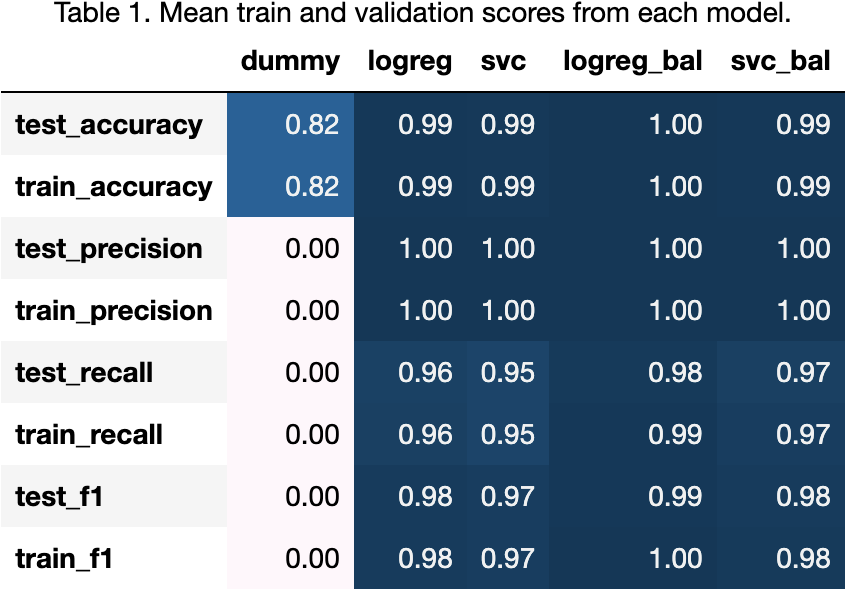
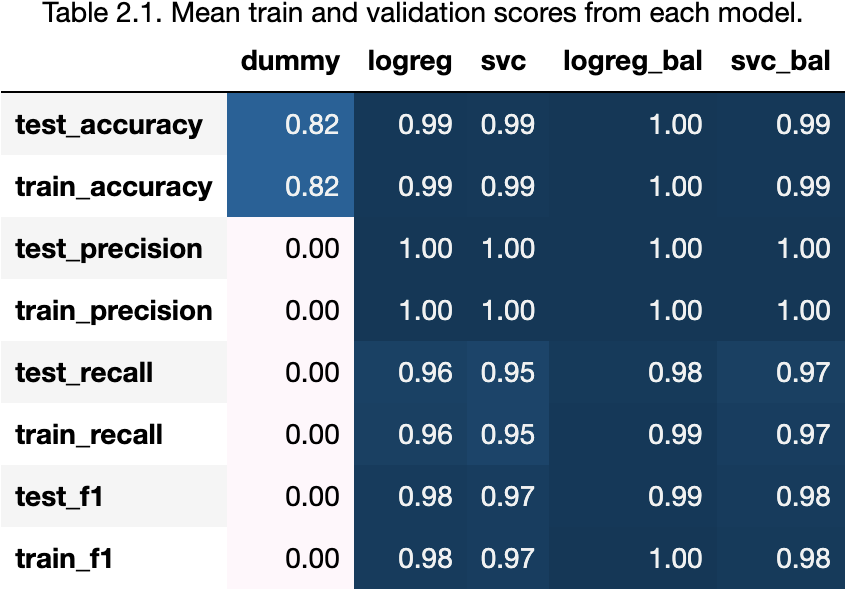
Reformat tables and add model results

Changed region(s): [[0.0307, 0.0, 0.9527, 0.061]]

diff --git a/src/nyc_rest_results.py b/src/nyc_rest_results.py
@@ -152,7 +152,7 @@ def main(train_data, test_data, output_dir):
         axis='columns',
         level=1
     ).drop(['fit_time', 'score_time'])
-    avg_results_table = avg_results_table.style.format(precision=2).background_gradient(axis=None).set_caption('Table 1. Mean train and validation scores from each model.')
+    avg_results_table = avg_results_table.style.format(precision=2).background_gradient(axis=None).set_caption('Table 2.1. Mean train and validation scores from each model.')
     dfi.export(avg_results_table, output_dir + "/mean_scores_table.png")
 
     # Adapted from 573 Lab 1
@@ -164,7 +164,7 @@ def main(train_data, test_data, output_dir):
         axis='columns',
         level=1
     ).drop(['fit_time', 'score_time'])
-    std_results_table = std_results_table.style.format(precision=2).background_gradient(axis=None).set_caption('Table 2. Standard deviation of train and validation scores for each model.')
+    std_results_table = std_results_table.style.format(precision=2).background_gradient(axis=None).set_caption('Table 2.2. Standard deviation of train and validation scores for each model.')
     dfi.export(std_results_table, output_dir + "/std_scores_table.png")
 
     # fitting the logistic regression model to train data because mean validation score for LR is higher
@@ -184,17 +184,18 @@ def main(train_data, test_data, output_dir):
 
     # Creating hyperparameter tuning table
     random_cv_df = pd.DataFrame(random_search.cv_results_)[['mean_train_score', 'mean_test_score', 'param_logisticregression__C',
-                                                            'param_countvectorizer__max_features', 'param_columntransformer__onehotencoder__max_categories', 'rank_test_score']].set_index("rank_test_score").sort_index()
-    random_cv_df = random_cv_df.style.set_caption('Table 3. Mean train and cross-validation scores (5-fold) for balanced logistici regression, optimizing recall score.')
+                                                            'param_columntransformer__countvectorizer__max_features',
+                                                            'param_columntransformer__onehotencoder__max_categories', 'rank_test_score']].set_index("rank_test_score").sort_index()
+    random_cv_df = random_cv_df.style.set_caption('Table 2.3. Mean train and cross-validation scores (5-fold) for balanced logistic regression, optimizing recall score.')
     dfi.export(random_cv_df, output_dir + "hyperparam_results.png")
 
     print("\nDoing cross validation using the best parameters...")
     best_model_table = pd.DataFrame(cross_validate(random_search.best_estimator_, X_train, y_train, return_train_score=True, scoring=classification_metrics)).agg(['mean', 'std']).round(3).T
-    best_model_table = best_model_table.style.format(precision=2).background_gradient(axis=None).set_caption(
-        'Table 4. Mean and standard deviation of train and validation scores for the logistic regression model.\nParameters: C = ' +
+    best_model_table = best_model_table.style.set_caption(
+        'Table 2.4. Mean and standard deviation of train and validation scores for the logistic regression model.\nParameters: C = ' +
         str(random_search.best_params_['logisticregression__C']) +
-        'max_features = ' + str(random_search.best_params_['columntransformer__countvectorizer__max_features']) +
-        'max_categories = ' + str(random_search.best_params_['columntransformer__onehotencoder__max_categories'])
+        ', max_features = ' + str(random_search.best_params_['columntransformer__countvectorizer__max_features']) +
+        ', max_categories = ' + str(random_search.best_params_['columntransformer__onehotencoder__max_categories'])
     )
     dfi.export(best_model_table, output_dir + "/best_model_results.png")
 
